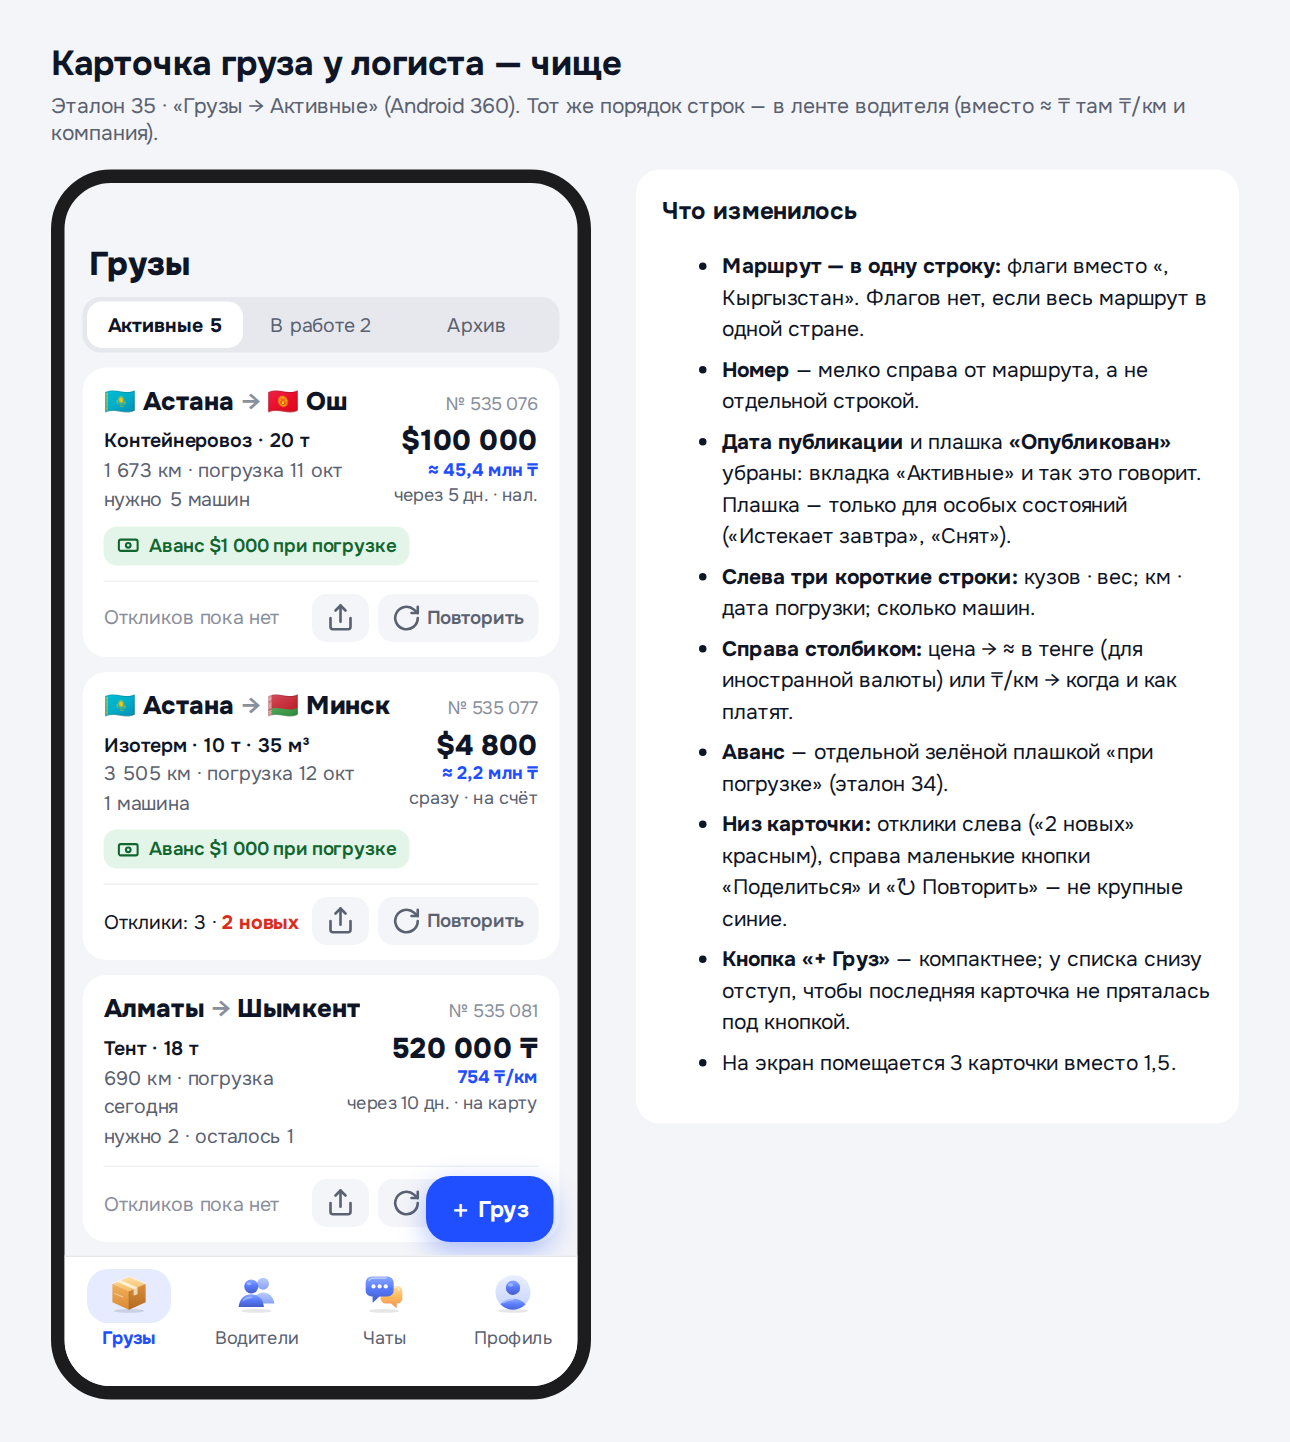
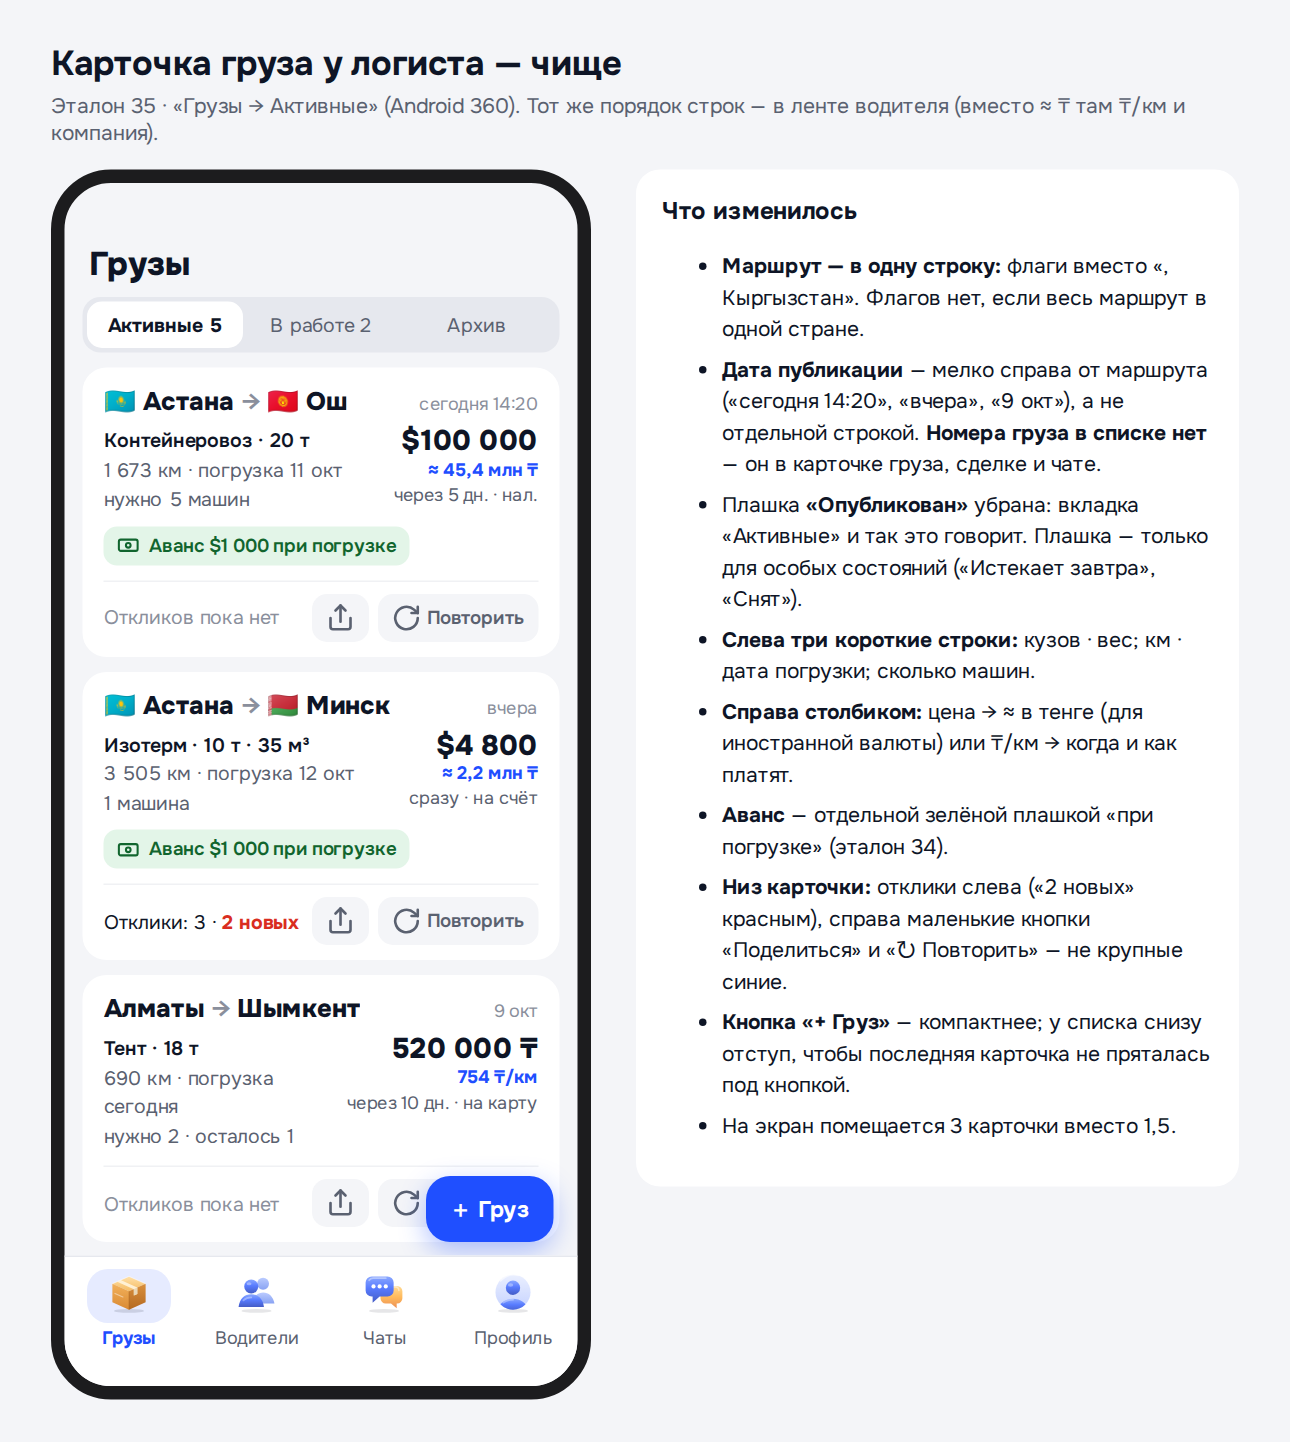
063/эталон 35: в списке грузов логиста — дата публикации вместо номера
Claude-Session: https://claude.ai/code/session_01Ff8oopsZvobH79mMVJKnFv

diff --git a/docs/tasks/063-payment-layout.md b/docs/tasks/063-payment-layout.md
@@ -20,8 +20,8 @@ ARB 4 языка; старые ключи `cargoAdvance` / `paymentDelayShort` /
 
 ## Карточка груза у логиста — чище (владелец 2026-10-11, эталон `design/screens/35-logist-cargo-card.png`, сравнить со скриншотом владельца: Android, «Грузы → Активные»)
 - **Маршрут — одной строкой:** флаги вместо «, Кыргызстан» (флагов нет, если маршрут внутри одной страны); длинное — многоточие, а не перенос.
-- **Номер** «№ 535 076» — мелко, серым, справа от маршрута; отдельной строки нет.
-- **Дату публикации и плашку «Опубликован» убрать** — вкладка «Активные» это и так говорит. Плашка — только для особых состояний: «Истекает завтра», «Снят», «В работе»; в «В работе» и «Архиве» — статус сделки, как сейчас.
+- **Дата публикации** — мелко, серым, справа от маршрута: «сегодня 14:20», «вчера», «9 окт»; отдельной строки нет. **Номера груза в списке нет** (уточнение владельца 2026-10-11) — номер остаётся в карточке груза, сделке, чате.
+- **Плашку «Опубликован» убрать** — вкладка «Активные» это и так говорит. Плашка — только для особых состояний: «Истекает завтра», «Снят», «В работе»; в «В работе» и «Архиве» — статус сделки, как сейчас.
 - **Слева три короткие строки:**
   1. кузов · вес (· объём);
   2. км · дата погрузки;
